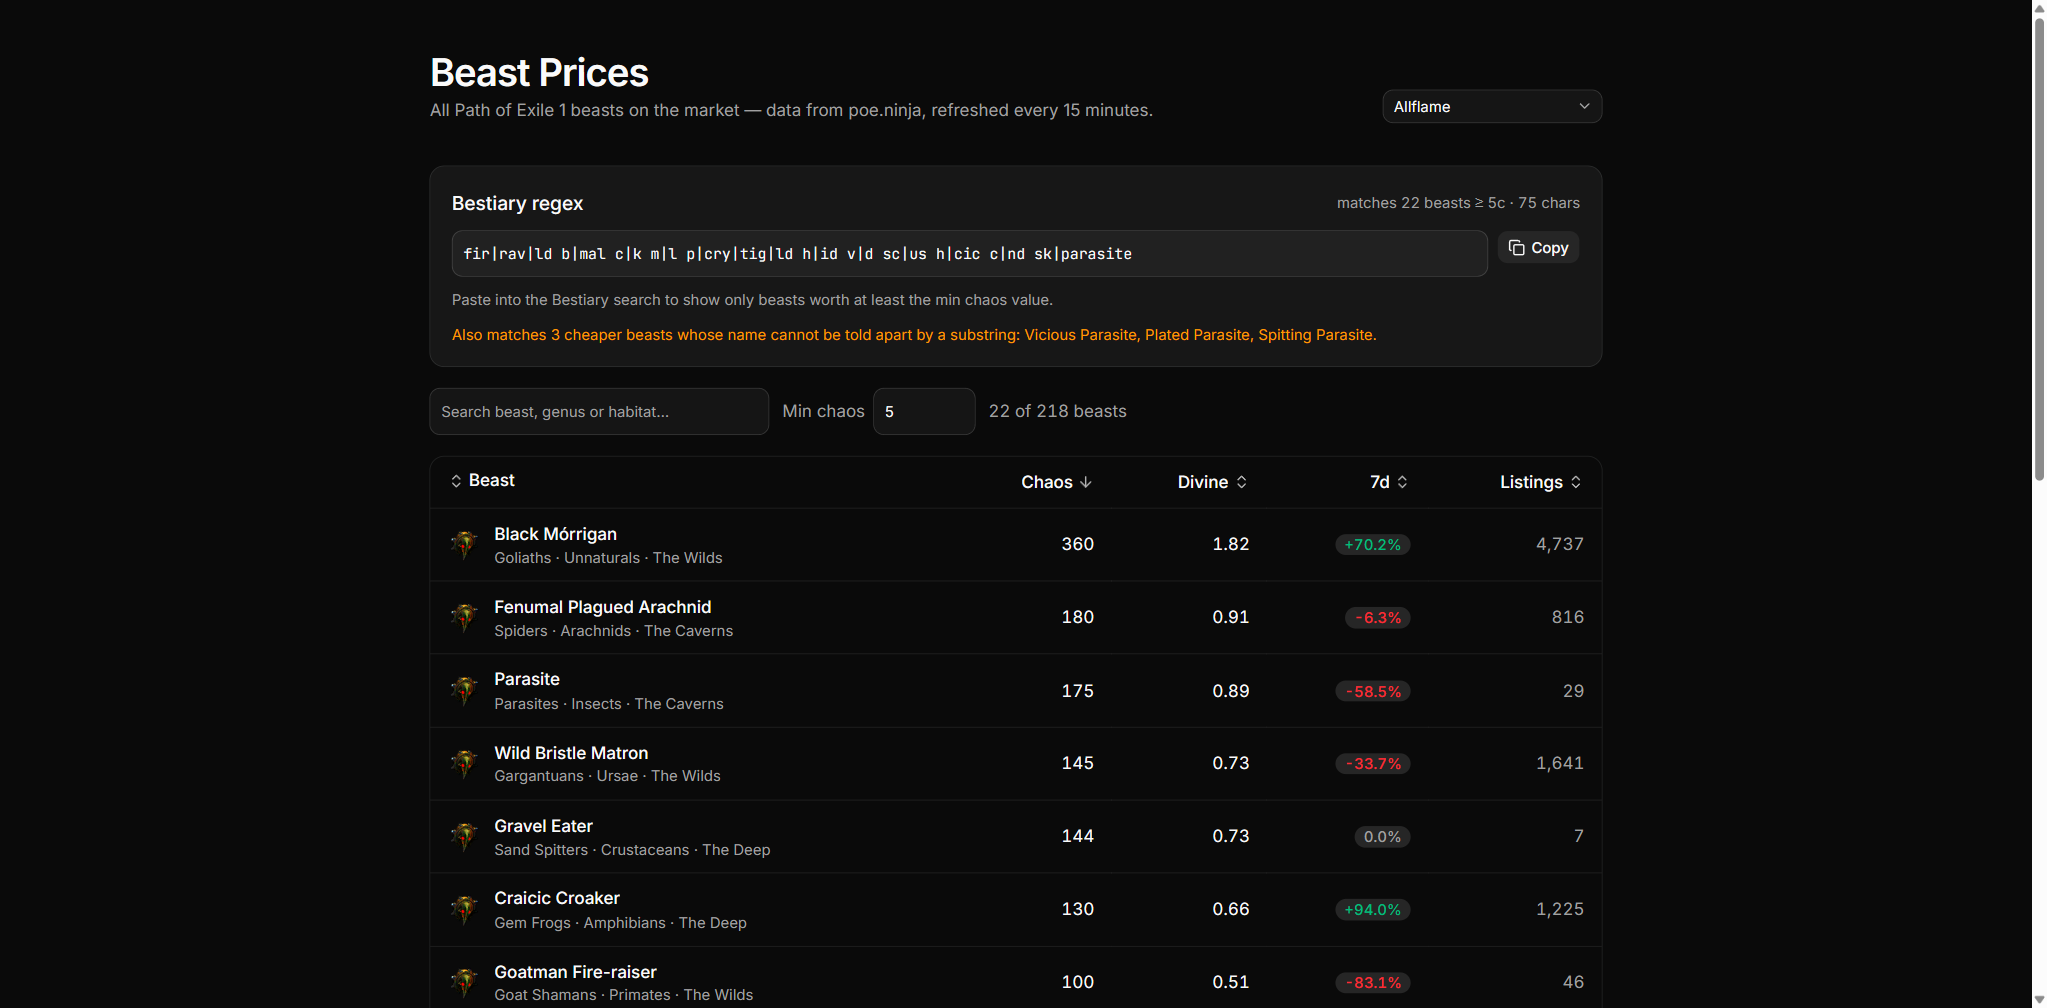
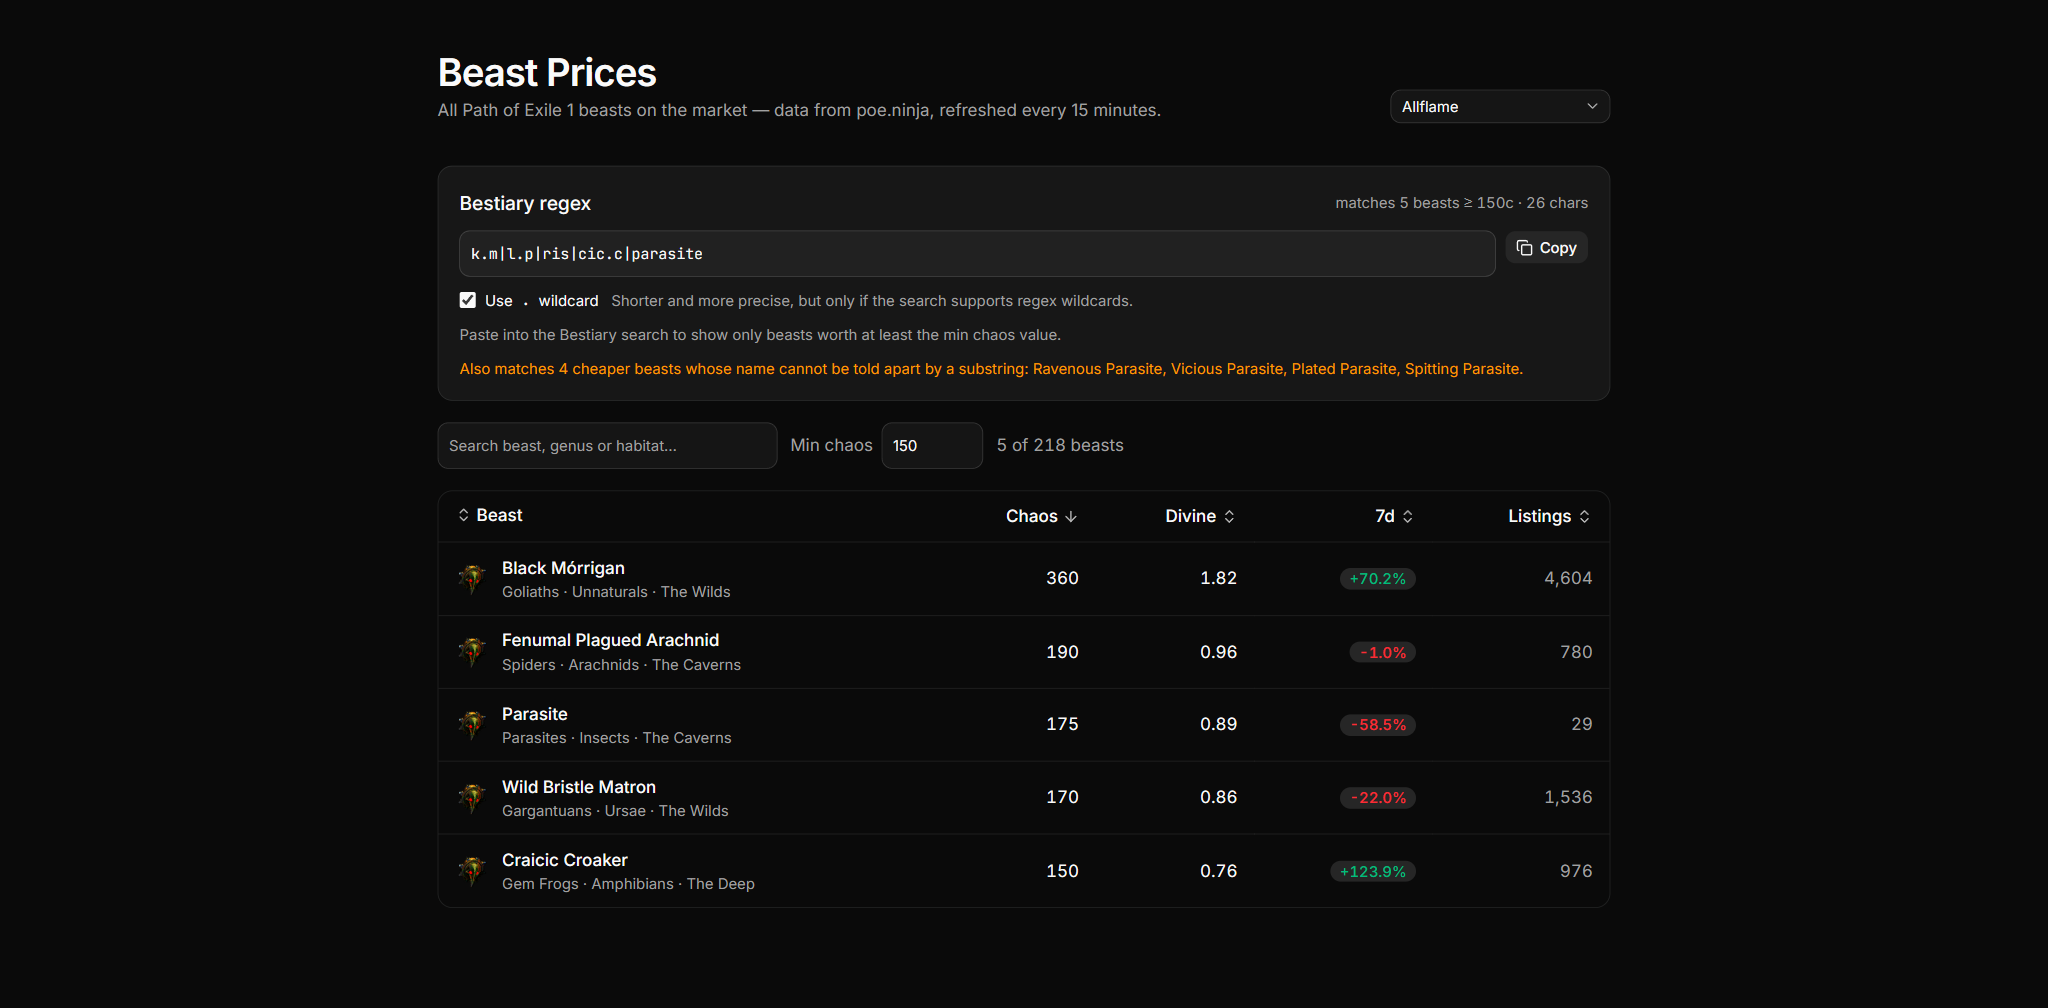
Stop emitting literal spaces in the Bestiary pattern
Fragments that spanned a word break ("l p" from "Fenumal Plagued
Arachnid") matched beasts sharing no substring with the target: in game
the pattern pulled in Sulphuric Scorpion and Scum Crawler. The search
field does not treat a space as a literal character.

Word breaks now travel as a "." wildcard, behind a toggle. Plain mode
uses single-word substrings only and needs no regex support at all, at
the cost of matching more cheap beasts (150c: 9 extras vs 4). Neither
mode ever misses a beast above the threshold.

diff --git a/src/lib/bestiary-regex.ts b/src/lib/bestiary-regex.ts
@@ -10,22 +10,34 @@
  */
 
 const MIN_FRAGMENT = 3;
-const MAX_FRAGMENT = 7;
+const MAX_FRAGMENT = 9;
 
-/** Only plain letters/spaces — keeps the result typeable and regex-safe. */
-const SAFE_FRAGMENT = /^[a-z][a-z ]*[a-z]$/;
+/**
+ * Letters only, never spanning a space. A fragment like "l p" looks harmless
+ * but the in-game search does not treat the space as a literal: patterns with
+ * spaces pulled in beasts that share no substring at all (a "l p" fragment
+ * matched "Sulphuric Scorpion"). Single words are unambiguous.
+ */
+const WORD_FRAGMENT = /^[a-z]+$/;
+
+/** Same, but may span one space, which is emitted as a `.` wildcard. */
+const PHRASE_FRAGMENT = /^[a-z]+ [a-z]+$/;
+
+/** Placeholder for the space, swapped for `.` on the way out. */
+const SPACE = " ";
 
 const COMBINING_MARKS = new RegExp("[\\u0300-\\u036f]", "g");
 
 const normalize = (name: string) =>
   name.toLowerCase().normalize("NFD").replace(COMBINING_MARKS, "");
 
-function fragmentsOf(name: string) {
+function fragmentsOf(name: string, wildcard: boolean) {
   const out = new Set<string>();
   for (let len = MIN_FRAGMENT; len <= MAX_FRAGMENT; len++) {
     for (let i = 0; i + len <= name.length; i++) {
       const fragment = name.slice(i, i + len);
-      if (SAFE_FRAGMENT.test(fragment)) out.add(fragment);
+      if (WORD_FRAGMENT.test(fragment)) out.add(fragment);
+      else if (wildcard && PHRASE_FRAGMENT.test(fragment)) out.add(fragment);
     }
   }
   return out;
@@ -33,6 +45,13 @@ function fragmentsOf(name: string) {
 
 function escapeRegex(value: string) {
   return value.replace(/[.*+?^${}()|[\]\\]/g, "\\$&");
+}
+
+/** Longest space-free chunk of a name, so the pattern never needs a space. */
+function longestWord(name: string) {
+  const words = name.split(/[^a-z]+/).filter(Boolean);
+  const longest = words.reduce((a, b) => (b.length >= a.length ? b : a), "");
+  return longest || escapeRegex(name);
 }
 
 export type BestiaryRegexResult = {
@@ -45,9 +64,19 @@ export type BestiaryRegexResult = {
   overmatched: string[];
 };
 
+export type BestiaryRegexOptions = {
+  /**
+   * Allow fragments that span a word break, written as a `.` wildcard. Shorter
+   * and far more selective patterns, but it relies on the search supporting
+   * `.`; leave it off for plain-substring-only matching.
+   */
+  wildcard?: boolean;
+};
+
 export function buildBestiaryRegex(
   wanted: string[],
   unwanted: string[],
+  { wildcard = false }: BestiaryRegexOptions = {},
 ): BestiaryRegexResult {
   const targets = wanted.map(normalize);
   const avoid = unwanted.map(normalize);
@@ -57,7 +86,7 @@ export function buildBestiaryRegex(
   const coverage = new Map<string, Set<number>>();
   const seen = new Set<string>();
   for (const target of targets) {
-    for (const fragment of fragmentsOf(target)) {
+    for (const fragment of fragmentsOf(target, wildcard)) {
       if (seen.has(fragment)) continue;
       seen.add(fragment);
       if (avoid.some((name) => name.includes(fragment))) continue;
@@ -92,9 +121,10 @@ export function buildBestiaryRegex(
     }
 
     if (best === null) {
-      // Every remaining name is a substring of an unwanted one — no fragment
-      // can isolate it, so fall back to the full names and accept the extras.
-      for (const i of uncovered) picked.push(escapeRegex(targets[i]));
+      // No fragment can isolate what is left ("Parasite" lives inside "Plated
+      // Parasite"). Fall back to the longest single word and accept the extras,
+      // which get reported below.
+      for (const i of uncovered) picked.push(longestWord(targets[i]));
       break;
     }
 
@@ -103,7 +133,8 @@ export function buildBestiaryRegex(
     coverage.delete(best);
   }
 
-  const pattern = picked.join("|");
+  // A literal space is not safe in the search field, so it leaves as `.`.
+  const pattern = picked.join("|").split(SPACE).join(".");
   const matcher = new RegExp(pattern, "i");
 
   return {

diff --git a/test/bestiary-regex.test.ts b/test/bestiary-regex.test.ts
@@ -49,28 +49,67 @@ test("reports beasts no substring can exclude", () => {
   assert.deepEqual(overmatched.sort(), ["Plated Parasite", "Vicious Parasite"]);
 });
 
+test("never emits a literal space, in either mode", () => {
+  // The in-game search does not treat a space as a literal character: a "l p"
+  // fragment pulled in "Sulphuric Scorpion", which shares no substring with the
+  // beast it was built for. Word breaks have to travel as a `.` wildcard.
+  for (const threshold of [1, 5, 20, 50, 150]) {
+    const { wanted, unwanted } = split(threshold);
+    for (const wildcard of [false, true]) {
+      const { pattern } = buildBestiaryRegex(wanted, unwanted, { wildcard });
+      assert.doesNotMatch(
+        pattern,
+        / /,
+        `${threshold}c wildcard=${wildcard} contains a space: ${pattern}`,
+      );
+    }
+  }
+});
+
+test("plain mode emits letters and pipes only", () => {
+  const { wanted, unwanted } = split(20);
+  const { pattern } = buildBestiaryRegex(wanted, unwanted);
+  assert.match(pattern, /^[a-z|]+$/);
+});
+
+test("wildcard mode is shorter and matches fewer cheap beasts", () => {
+  const { wanted, unwanted } = split(150);
+  const plain = buildBestiaryRegex(wanted, unwanted);
+  const wide = buildBestiaryRegex(wanted, unwanted, { wildcard: true });
+
+  assert.ok(wide.pattern.includes("."), "expected a wildcard fragment");
+  assert.ok(
+    wide.overmatched.length < plain.overmatched.length,
+    `wildcard ${wide.overmatched.length} vs plain ${plain.overmatched.length}`,
+  );
+});
+
 test("matches accented names with an ASCII pattern", () => {
   const { pattern } = buildBestiaryRegex(
     ["Black Mórrigan"],
     BEASTS.filter((b) => b.name !== "Black Mórrigan").map((b) => b.name),
   );
-  assert.match(pattern, /^[a-z |]+$/);
+  assert.match(pattern, /^[a-z|]+$/);
   assert.ok(new RegExp(pattern, "i").test(normalize("Black Mórrigan")));
 });
 
 for (const threshold of [1, 5, 20, 30, 100, 175]) {
-  test(`never misses a beast worth at least ${threshold}c`, () => {
-    const { wanted, unwanted } = split(threshold);
-    const { pattern, overmatched } = buildBestiaryRegex(wanted, unwanted);
-    const matcher = new RegExp(pattern, "i");
+  for (const wildcard of [false, true]) {
+    test(`never misses a beast worth at least ${threshold}c (wildcard=${wildcard})`, () => {
+      const { wanted, unwanted } = split(threshold);
+      const { pattern, overmatched } = buildBestiaryRegex(wanted, unwanted, {
+        wildcard,
+      });
+      const matcher = new RegExp(pattern, "i");
 
-    const missed = wanted.filter((name) => !matcher.test(normalize(name)));
-    assert.deepEqual(missed, [], `pattern missed ${missed.length} beasts`);
+      const missed = wanted.filter((name) => !matcher.test(normalize(name)));
+      assert.deepEqual(missed, [], `pattern missed ${missed.length} beasts`);
 
-    // Every false positive must be one the caller was told about.
-    const extra = unwanted.filter((name) => matcher.test(normalize(name)));
-    assert.deepEqual(extra.sort(), [...overmatched].sort());
-  });
+      // Every false positive must be one the caller was told about.
+      const extra = unwanted.filter((name) => matcher.test(normalize(name)));
+      assert.deepEqual(extra.sort(), [...overmatched].sort());
+    });
+  }
 }
 
 test("stays far shorter than listing every name", () => {

diff --git a/src/components/beast-table.tsx b/src/components/beast-table.tsx
@@ -56,6 +56,7 @@ function BestiaryRegex({
   kept: Beast[];
 }) {
   const [copied, setCopied] = useState(false);
+  const [wildcard, setWildcard] = useState(false);
 
   const { pattern, overmatched } = useMemo(() => {
     if (threshold <= 0 || kept.length === 0)
@@ -64,8 +65,9 @@ function BestiaryRegex({
     return buildBestiaryRegex(
       kept.map((b) => b.name),
       beasts.filter((b) => !keptIds.has(b.id)).map((b) => b.name),
+      { wildcard },
     );
-  }, [beasts, kept, threshold]);
+  }, [beasts, kept, threshold, wildcard]);
 
   async function copy() {
     await navigator.clipboard.writeText(pattern);
@@ -103,6 +105,23 @@ function BestiaryRegex({
           {copied ? <Check className="size-4" /> : <Copy className="size-4" />}
           {copied ? "Copied" : "Copy"}
         </Button>
+      </div>
+
+      <div className="flex flex-wrap items-center gap-3">
+        <label className="flex items-center gap-2 text-sm">
+          <input
+            type="checkbox"
+            checked={wildcard}
+            onChange={(e) => setWildcard(e.target.checked)}
+            className="size-4 accent-current"
+          />
+          Use <code className="font-mono">.</code> wildcard
+        </label>
+        <span className="text-muted-foreground text-sm">
+          {wildcard
+            ? "Shorter and more precise, but only if the search supports regex wildcards."
+            : "Plain substrings only — safe everywhere, matches a few more cheap beasts."}
+        </span>
       </div>
 
       <p className="text-muted-foreground text-sm">

diff --git a/README.md b/README.md
@@ -27,7 +27,7 @@ The in-game search is a case-insensitive regex over the beast name, so the
 generated pattern is an alternation of short name fragments:
 
 ```
-fir|rav|ld b|mal c|k m|l p|cry|tig|ld h|id v|d sc|us h|cic c|nd sk|parasite
+k.m|l.p|parasite        # everything worth 150c or more
 ```
 
 Each fragment is chosen so it appears in **no** beast below the threshold.
@@ -35,7 +35,25 @@ Picking the smallest such set is set cover, so `src/lib/bestiary-regex.ts` uses
 the greedy approximation: repeatedly take the fragment covering the most
 still-uncovered beasts.
 
-Two things the UI tells you about instead of hiding:
+### No literal spaces
+
+An early version emitted fragments like `l p` (spanning the word break in
+"Fenuma**l P**lagued Arachnid"). In game those pulled in beasts that share no
+substring with the target at all — `l p` matched "Sulphuric Scorpion", and
+"Scum Crawler" showed up too. The search field does not treat a space as a
+literal character, so word breaks now travel as a `.` wildcard instead.
+
+That leaves two modes, toggled in the UI:
+
+| Mode | Example (150c) | Chars | Extra beasts |
+| --- | --- | --- | --- |
+| Plain substrings | `iga\|arachnid\|parasite` | 21 | 9 |
+| `.` wildcard | `k.m\|l.p\|parasite` | 16 | 4 |
+
+Plain mode never relies on regex support of any kind; wildcard mode is shorter
+and much more selective. Neither ever misses a beast above the threshold.
+
+Two more things the UI tells you about instead of hiding:
 
 - **Length.** The search field takes 250 characters. Longer patterns get cut off.
 - **Over-matching.** When a wanted name is fully contained in a cheaper one
